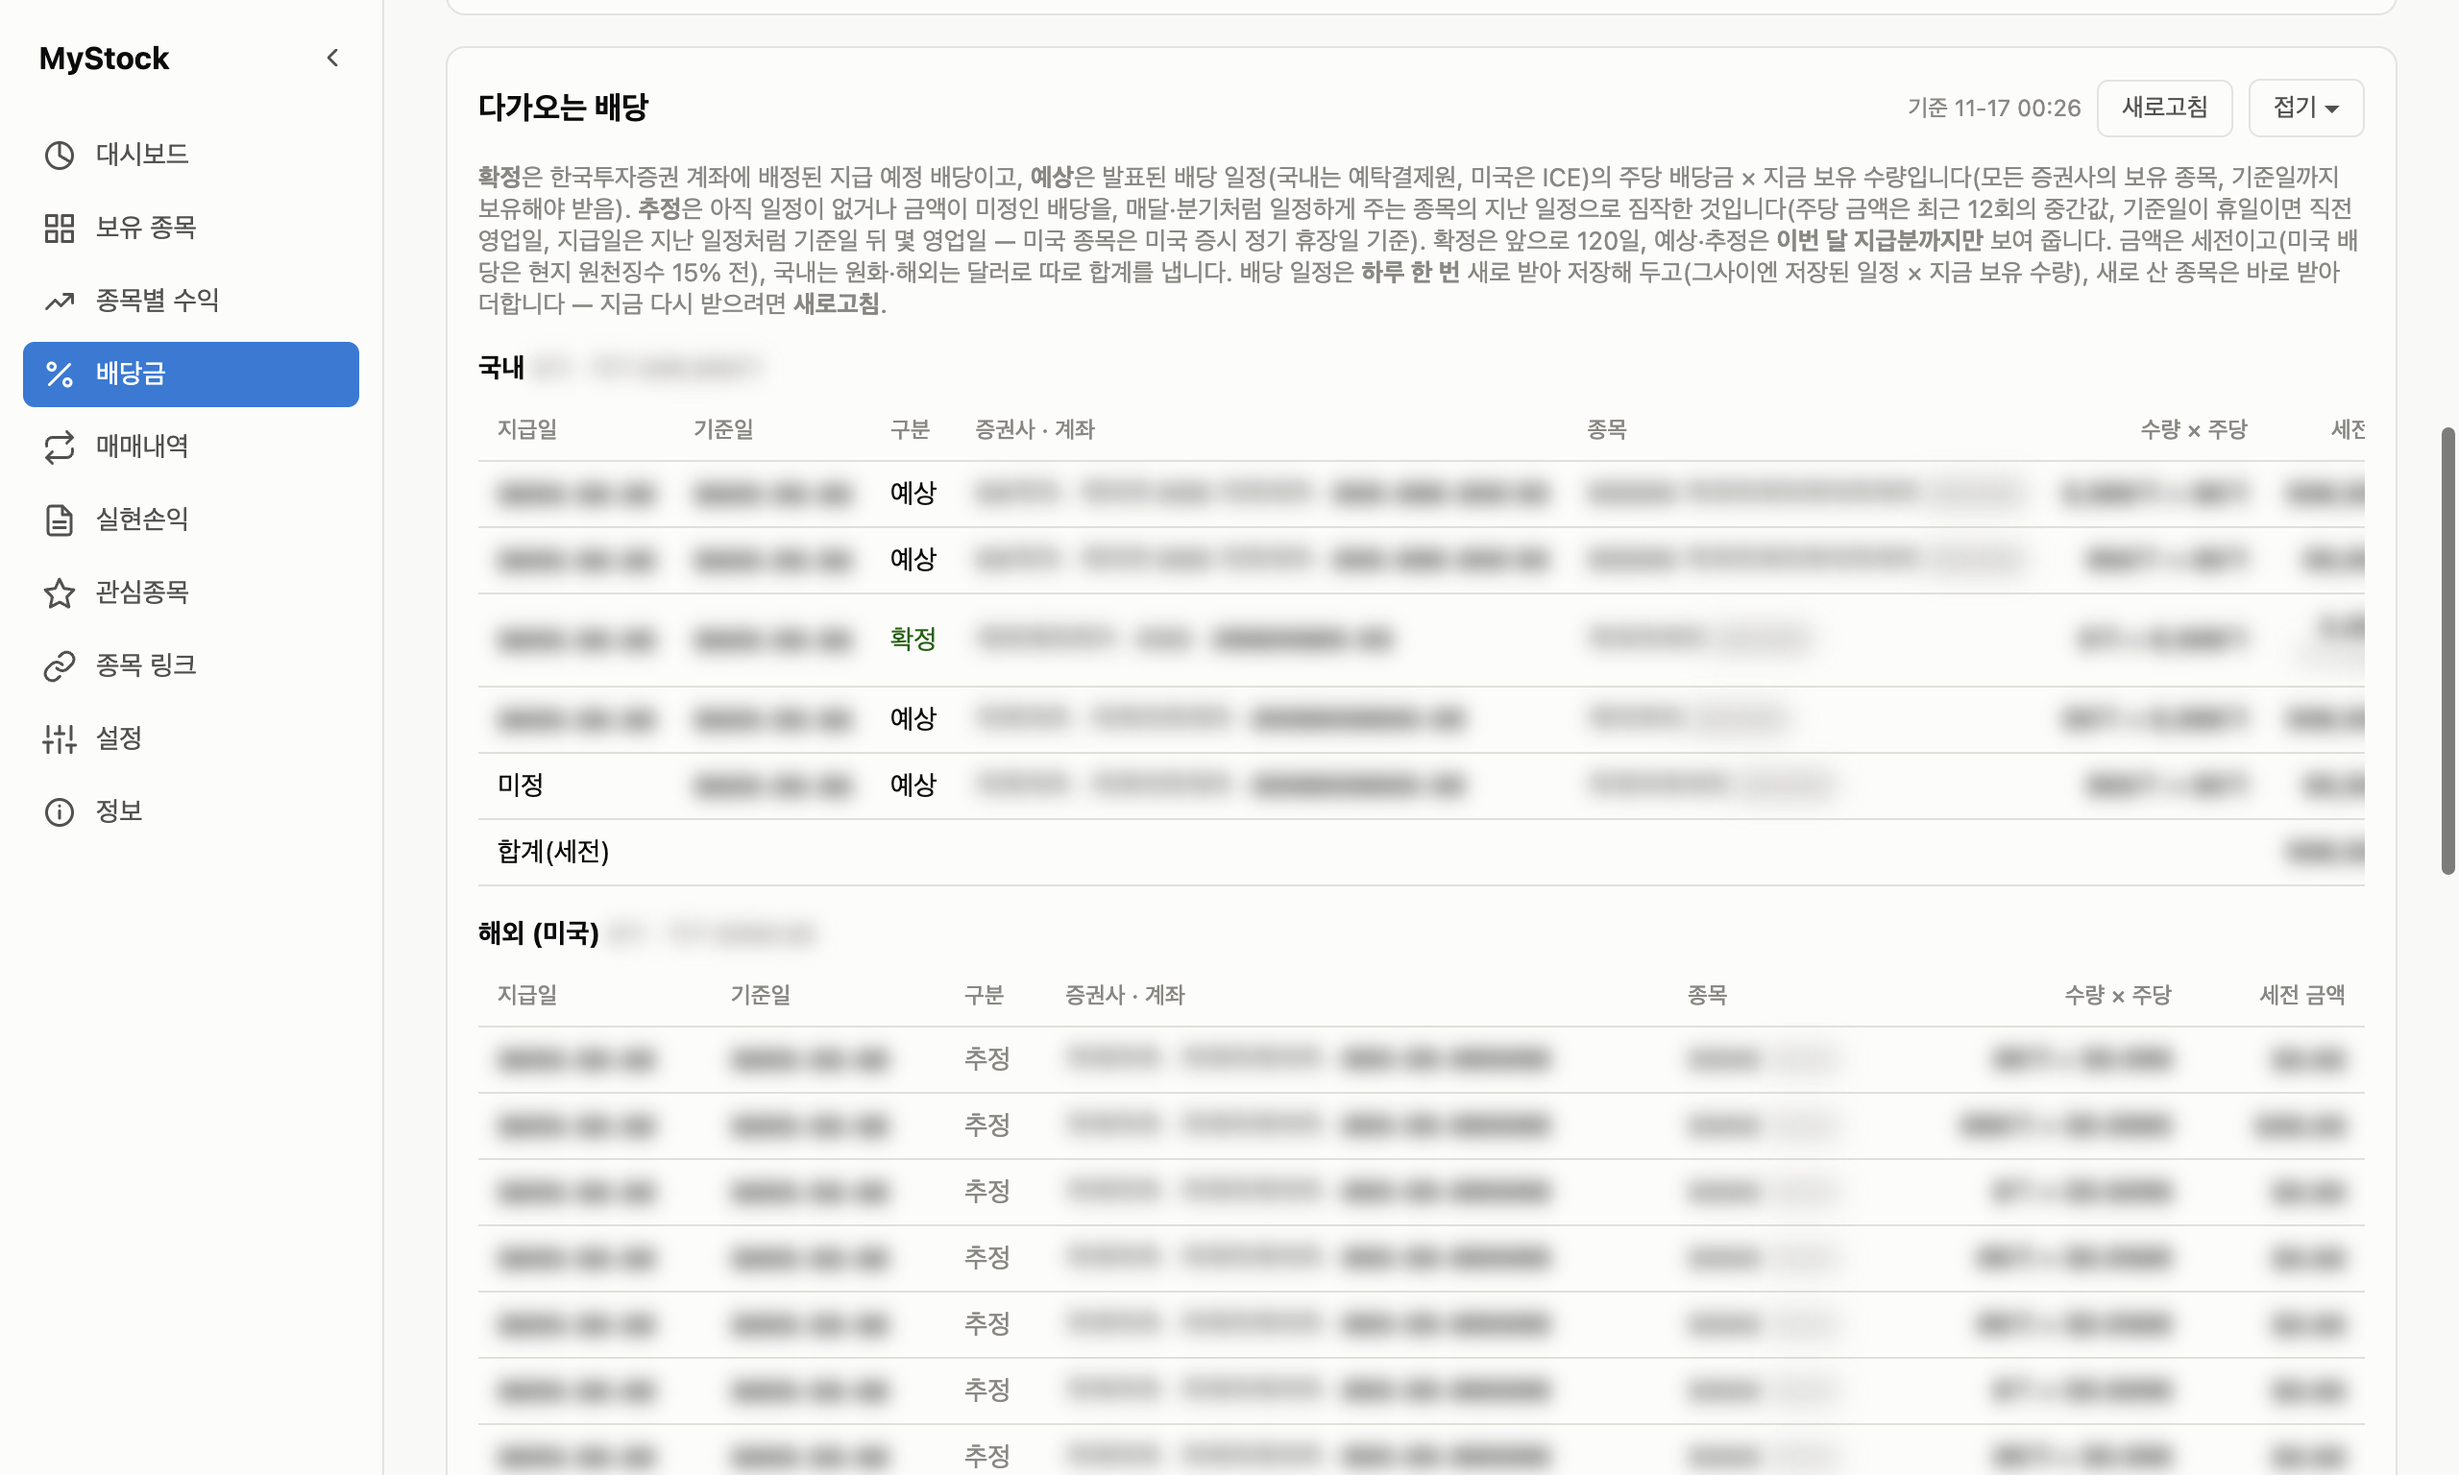
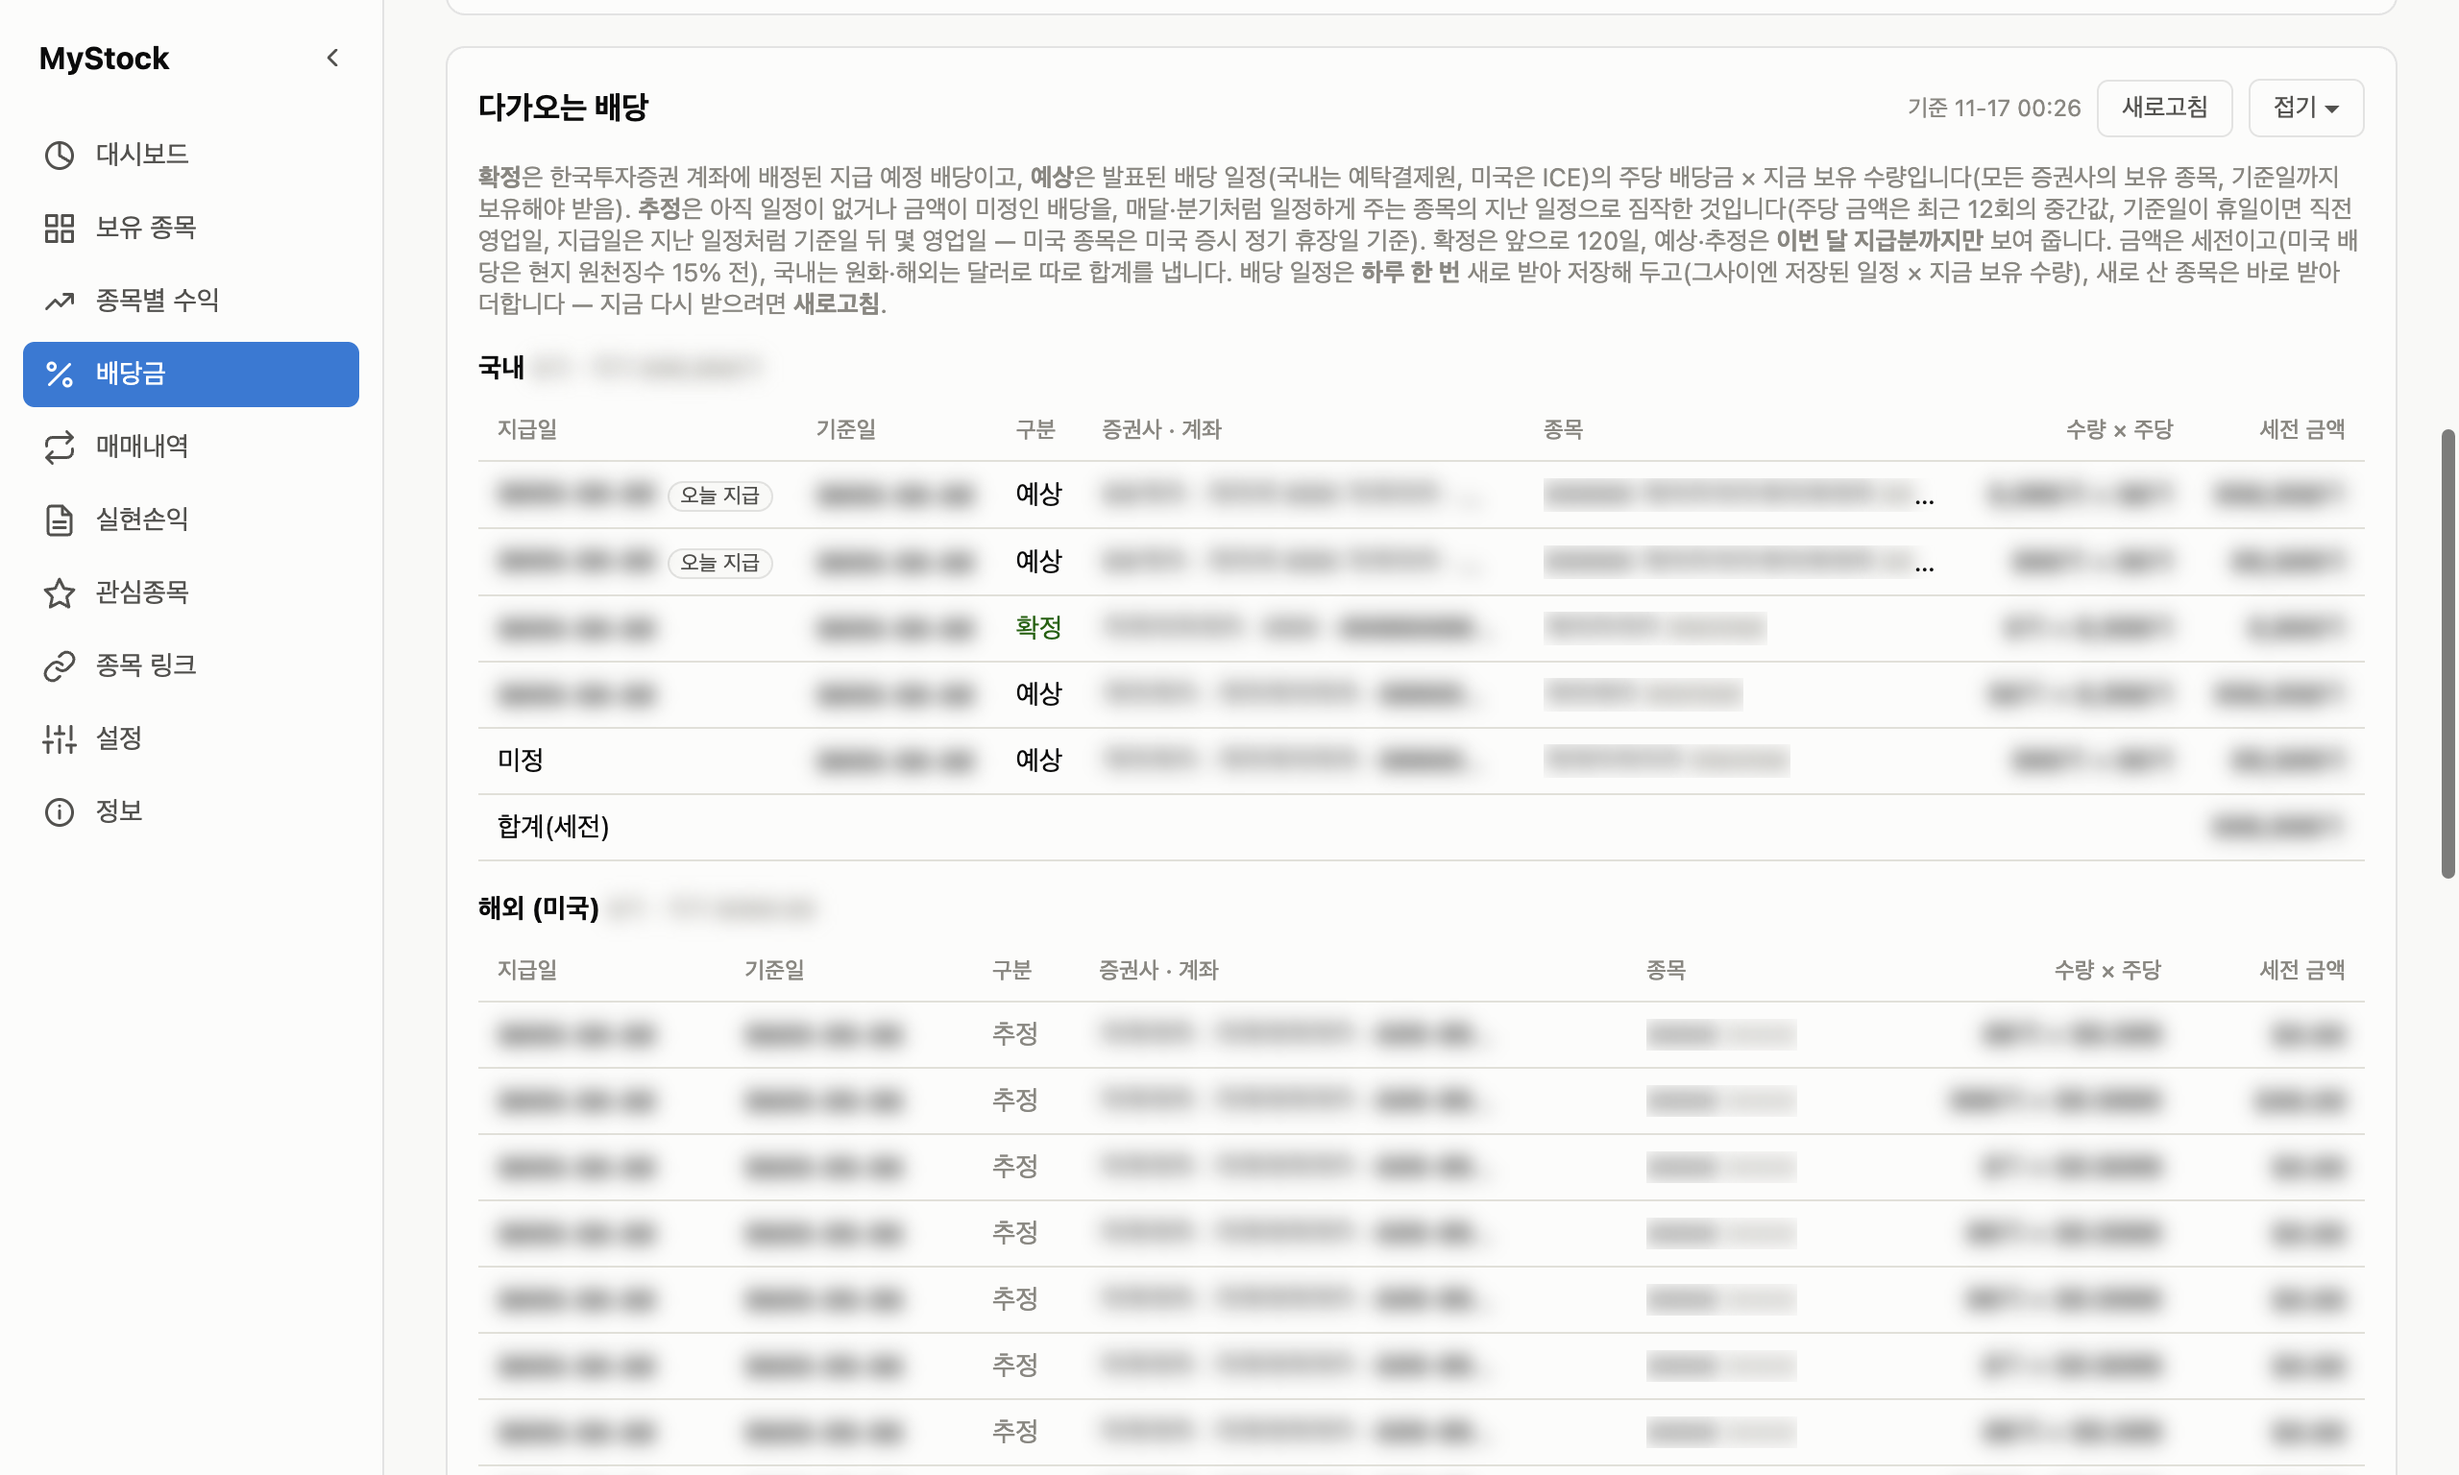
chore: v1.3.3 — ISA·연금 예상 배당 세전, 다가오는 배당 "오늘 지급"·표 잘림, 종목 상세 투자지표
- 버전 1.3.3(version.json·package.json·package-lock), CHANGELOG v1.3.3 절, 매뉴얼 머리말·README 최신 버전
- 다가오는 배당 표의 계좌·종목 칸 21cqw — "오늘 지급" 배지가 있는 날도 세전 금액 칸이 잘리지 않게
- 매뉴얼 스크린샷: 정보(1.3.3), 다가오는 배당("오늘 지급" 표시·잘림 없는 표) — 치환·블러 후 OCR 확인

diff --git a/frontend/src/styles.css b/frontend/src/styles.css
@@ -361,7 +361,7 @@ td {
 }
 
 /* 다가오는 배당 표의 계좌·종목 칸 — 국내 ETF 이름과 "증권사 · 별칭 (계좌번호)"가 길어 기본 창 폭(1280)에서도 표가 넘쳐
-   오른쪽 세전 금액 칸이 잘렸다(2026-11-17). 표 컨테이너(.table-scroll, container-type) 폭의 24%씩으로 줄이고 전체는 title로 본다. */
+   오른쪽 세전 금액 칸이 잘렸다(2026-11-17). 표 컨테이너(.table-scroll, container-type) 폭의 21%씩으로(날짜 칸의 "오늘 지급" 배지까지 들어가게) 줄이고 전체는 title로 본다. */
 /* 다가오는 배당 — 지급일이 오늘인 행(받은 기록이 생기면 목록에서 빠진다). 상태 색이 아니라 중립 배지. */
 .today-badge {
   display: inline-block;
@@ -378,7 +378,7 @@ td {
 .upcoming-cell-truncate {
   display: inline-block;
   vertical-align: bottom;
-  max-width: 24cqw;
+  max-width: 21cqw;
   overflow: hidden;
   text-overflow: ellipsis;
   white-space: nowrap;

diff --git a/README.md b/README.md
@@ -25,7 +25,7 @@
   - 릴리스마다 `SHA256SUMS.txt`가 함께 올라갑니다 — 받은 파일이 진짜인지 확인하는 방법은
     [매뉴얼의 "받은 파일 확인하기"](doc/user-manual.md#받은-파일-확인하기-선택)를 보세요.
 - **사용자 매뉴얼**: [`doc/user-manual.md`](doc/user-manual.md) — 화면별 사용법, API 키 발급 안내(증권사·Google·한국수출입은행), 백업/복원, 문제 해결.
-- **변경 내역**: [`CHANGELOG.md`](CHANGELOG.md) — 버전별 새 기능과 수정(최신 v1.3.2). 새 버전으로 바꿔 설치해도 데이터와 API 키는 그대로 남습니다
+- **변경 내역**: [`CHANGELOG.md`](CHANGELOG.md) — 버전별 새 기능과 수정(최신 v1.3.3). 새 버전으로 바꿔 설치해도 데이터와 API 키는 그대로 남습니다
   ([매뉴얼의 "새 버전으로 업데이트"](doc/user-manual.md#새-버전으로-업데이트)).
 - ⚠ 설치 파일은 **OS별 코드 서명 인증서로 서명되어 있지 않아** 처음 실행할 때 macOS·Windows가 막습니다.
   OS별 허용 방법(macOS 15부터는 우클릭 → 열기가 통하지 않음)은

diff --git a/CHANGELOG.md b/CHANGELOG.md
@@ -3,7 +3,9 @@
 MyStock의 버전별 변경 사항입니다. 설치 파일은 [GitHub Releases](https://github.com/ultracat/MyStockInfo/releases)에서 받습니다.
 기능별 사용법은 [사용자 매뉴얼](doc/user-manual.md)을 참고하세요.
 
-## 다음 버전 (미배포)
+## v1.3.3 — 2026-11-17
+
+다가오는 배당과 배당 그래프를 다듬고, 관심종목 상세에 현재가 기준 투자지표를 더했습니다. 데이터와 API 키는 그대로 이어서 씁니다.
 
 ### 개선
 - **ISA·연금저축·IRP 계좌의 예상 배당**이 월별 배당금 그래프에서 15.4% 세금을 뺀 금액으로 잡히던 것을 고쳤습니다(이 계좌들은 원천징수가 없어 세전 그대로).
